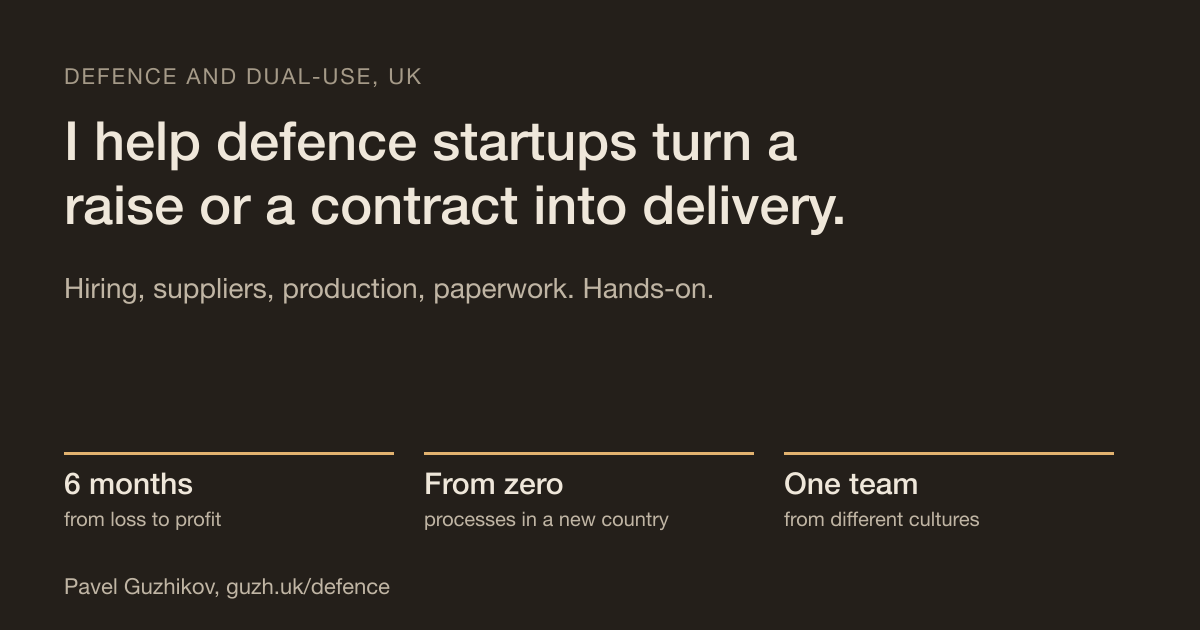
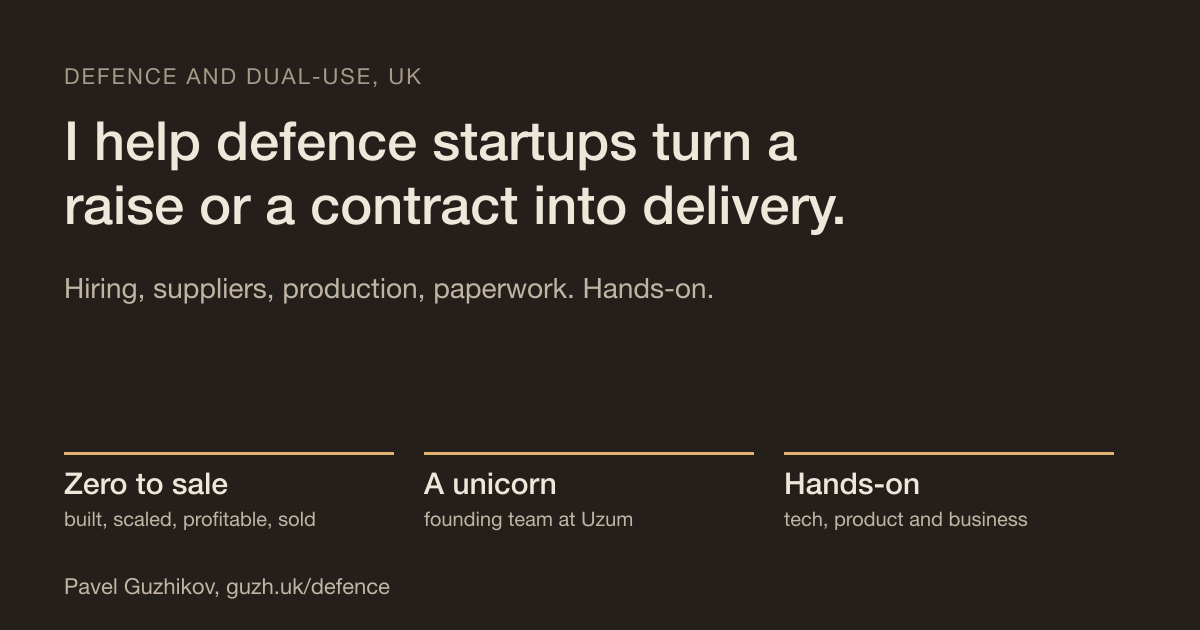
Outreach pages: lead with breadth, built from zero to a sale
Pavel, 17 Nov 2026: the main proof is that he has built companies at every stage and in every set-up
(from zero, scaling, profit, sale), was on a unicorn's founding team, and is hands-on in tech, product and
business. Loss to profit in six months stays as a supporting example in Who I am.

diff --git a/defence/brief/index.html b/defence/brief/index.html
@@ -4,23 +4,23 @@
 <meta charset="utf-8">
 <meta name="viewport" content="width=device-width, initial-scale=1">
 <!-- Generated by tools/make-defence-pages.py. Edit there, not here. -->
-<title>From loss to profit in six months. Now for defence startups | Pavel Guzhikov</title>
-<meta name="description" content="Pavel Guzhikov has taken a business from loss to profit in six months and rebuilt a company&#x27;s processes from zero in a new country, and still ships his own code. He now helps UK defence and dual-use startups deliver after a raise or a contract.">
+<title>Companies built from zero to a sale. Now for defence startups | Pavel Guzhikov</title>
+<meta name="description" content="Pavel Guzhikov has built companies at every stage, from zero through scaling and profit to a sale, was on the founding team of a unicorn, and still ships his own code. He now helps UK defence and dual-use startups deliver after a raise or a contract.">
 <link rel="canonical" href="https://guzh.uk/defence/brief/">
 <meta property="og:type" content="website">
 <meta property="og:url" content="https://guzh.uk/defence/brief/">
 <meta property="og:site_name" content="Pavel Guzhikov">
-<meta property="og:title" content="From loss to profit in six months. Now for defence startups">
-<meta property="og:description" content="Pavel Guzhikov has taken a business from loss to profit in six months and rebuilt a company&#x27;s processes from zero in a new country, and still ships his own code. He now helps UK defence and dual-use startups deliver after a raise or a contract.">
+<meta property="og:title" content="Companies built from zero to a sale. Now for defence startups">
+<meta property="og:description" content="Pavel Guzhikov has built companies at every stage, from zero through scaling and profit to a sale, was on the founding team of a unicorn, and still ships his own code. He now helps UK defence and dual-use startups deliver after a raise or a contract.">
 <meta property="og:image" content="https://guzh.uk/assets/defence/proof-og.png">
 <meta property="og:image:width" content="1200">
 <meta property="og:image:height" content="630">
-<meta property="og:image:alt" content="From loss to profit in six months. Now I do it for defence startups.">
+<meta property="og:image:alt" content="I have built companies at every stage, from zero to a sale. Now I do it for defence startups.">
 <meta name="twitter:card" content="summary_large_image">
-<meta name="twitter:title" content="From loss to profit in six months. Now for defence startups">
-<meta name="twitter:description" content="Pavel Guzhikov has taken a business from loss to profit in six months and rebuilt a company&#x27;s processes from zero in a new country, and still ships his own code. He now helps UK defence and dual-use startups deliver after a raise or a contract.">
+<meta name="twitter:title" content="Companies built from zero to a sale. Now for defence startups">
+<meta name="twitter:description" content="Pavel Guzhikov has built companies at every stage, from zero through scaling and profit to a sale, was on the founding team of a unicorn, and still ships his own code. He now helps UK defence and dual-use startups deliver after a raise or a contract.">
 <meta name="twitter:image" content="https://guzh.uk/assets/defence/proof-og.png">
-<meta name="twitter:image:alt" content="From loss to profit in six months. Now I do it for defence startups.">
+<meta name="twitter:image:alt" content="I have built companies at every stage, from zero to a sale. Now I do it for defence startups.">
 <meta name="theme-color" content="#F1EFE9" media="(prefers-color-scheme: light)">
 <meta name="theme-color" content="#241F1A" media="(prefers-color-scheme: dark)">
 <link rel="icon" href="/favicon.svg" type="image/svg+xml">
@@ -28,7 +28,7 @@
 <link rel="preconnect" href="https://fonts.googleapis.com">
 <link rel="preconnect" href="https://fonts.gstatic.com" crossorigin>
 <link href="https://fonts.googleapis.com/css2?family=Geist:wght@400;500;600&amp;display=swap" rel="stylesheet">
-<script type="application/ld+json">{"@context": "https://schema.org", "@type": "Service", "name": "From loss to profit in six months. Now for defence startups", "description": "Pavel Guzhikov has taken a business from loss to profit in six months and rebuilt a company's processes from zero in a new country, and still ships his own code. He now helps UK defence and dual-use startups deliver after a raise or a contract.", "url": "https://guzh.uk/defence/brief/", "areaServed": "GB", "serviceType": "Delivery, product and scale-up partner for defence and dual-use technology companies", "provider": {"@type": "Person", "name": "Pavel Guzhikov", "url": "https://guzh.uk/"}}</script>
+<script type="application/ld+json">{"@context": "https://schema.org", "@type": "Service", "name": "Companies built from zero to a sale. Now for defence startups", "description": "Pavel Guzhikov has built companies at every stage, from zero through scaling and profit to a sale, was on the founding team of a unicorn, and still ships his own code. He now helps UK defence and dual-use startups deliver after a raise or a contract.", "url": "https://guzh.uk/defence/brief/", "areaServed": "GB", "serviceType": "Delivery, product and scale-up partner for defence and dual-use technology companies", "provider": {"@type": "Person", "name": "Pavel Guzhikov", "url": "https://guzh.uk/"}}</script>
 <script>
 try { var t = localStorage.getItem("theme"); if (t === "light" || t === "dark") document.documentElement.setAttribute("data-theme", t); } catch (e) {}
 document.documentElement.classList.add("js");
@@ -264,13 +264,13 @@ main{max-width:1120px}
 <div class="hero">
 <div>
   <p class="kicker">Defence and dual-use, UK</p>
-  <h1>I've taken a business from loss to profit in six months. Now I do it for defence startups.</h1>
-  <p class="sub">After a raise or a contract, the hard part is everything around the product. I've run that part in a new country with a mixed team, and I still write the software myself.</p>
+  <h1>I've built companies at every stage, from zero to a sale. Now I do it for defence startups.</h1>
+  <p class="sub">After a raise or a contract, the hard part is everything around the product. I've run that part as founder, operator and engineer, and I still write the software myself.</p>
   <div class="row"><a class="btn" href="https://calendar.app.google/RG3g5WzxB3y9tXu39" target="_blank" rel="noopener noreferrer">Book 30 minutes</a><a class="btn ghost" href="mailto:pavel@guzh.uk">pavel@guzh.uk</a></div>
   <div class="facts">
-  <div class="fact"><b>6 months</b><span>from loss to profit, by fixing how the business runs</span></div>
-  <div class="fact"><b>From zero</b><span>processes rebuilt in a new country, with no infrastructure to lean on</span></div>
-  <div class="fact"><b>One team</b><span>out of people from different countries and cultures</span></div>
+  <div class="fact"><b>Zero to sale</b><span>companies built, scaled, made profitable, two of them sold</span></div>
+  <div class="fact"><b>A unicorn</b><span>founding team at Uzum, valued at over a billion dollars by outside investors</span></div>
+  <div class="fact"><b>Hands-on</b><span>in the technology, the product and the business, still writing the code</span></div>
 </div>
 </div>
 <section class="picker" aria-labelledby="pick-h">
@@ -289,7 +289,7 @@ main{max-width:1120px}
 </section>
 </div>
 <h2>Who I am</h2>
-<p>Pavel Guzhikov, London. Twenty years of building companies, as founder and as the person who makes them run. I've rebuilt a company's processes from zero in a new country, brought teams from different cultures together into one, and taken a business from loss to profit in six months. I was on the founding team at Uzum, Uzbekistan's first unicorn: lending, payments, cards and a marketplace for millions of users, in a market with no digital infrastructure. Before that I built fintech products with more than 100 banks, and founded and sold two companies. I am most interested now in problems where the technology is hard, the deployment is political and the stakes are national: defence and dual-use, sovereign infrastructure, public systems.</p>
+<p>Pavel Guzhikov, London. Twenty years of building companies, as founder and as the person who makes them run. I've built companies at every stage and in every set-up: from zero, through scaling and profit, to a sale. I was on the founding team at Uzum, Uzbekistan's first unicorn: lending, payments, cards and a marketplace for millions of users, in a market with no digital infrastructure. Along the way I've rebuilt a company's processes from zero in a new country, brought teams from different cultures together into one, and taken a business from loss to profit in six months. Before that I built fintech products with more than 100 banks, and founded and sold two companies. I am most interested now in problems where the technology is hard, the deployment is political and the stakes are national: defence and dual-use, sovereign infrastructure, public systems.</p>
 
 <h2>Hands on, now</h2>
 <p class="muted">I write and ship the software myself. Two things I am building alongside, for society and the state:</p>

diff --git a/pe/index.html b/pe/index.html
@@ -5,20 +5,20 @@
 <meta name="viewport" content="width=device-width, initial-scale=1">
 <!-- Generated by tools/make-pe-page.py. Edit there, not here. -->
 <title>I make the 100-day plan happen in the British brands you buy | Pavel Guzhikov</title>
-<meta name="description" content="For private equity owners of British brands: precise management and execution inside the company you have just bought, hands-on beside management and measured weekly. Pavel Guzhikov: took a business from loss to profit in six months.">
+<meta name="description" content="For private equity owners of British brands: precise management and execution inside the company you have just bought, hands-on beside management and measured weekly. Pavel Guzhikov: companies built from zero to a sale, founding team of a unicorn.">
 <link rel="canonical" href="https://guzh.uk/pe/">
 <meta property="og:type" content="website">
 <meta property="og:url" content="https://guzh.uk/pe/">
 <meta property="og:site_name" content="Pavel Guzhikov">
 <meta property="og:title" content="I make the 100-day plan happen in the British brands you buy">
-<meta property="og:description" content="For private equity owners of British brands: precise management and execution inside the company you have just bought, hands-on beside management and measured weekly. Pavel Guzhikov: took a business from loss to profit in six months.">
+<meta property="og:description" content="For private equity owners of British brands: precise management and execution inside the company you have just bought, hands-on beside management and measured weekly. Pavel Guzhikov: companies built from zero to a sale, founding team of a unicorn.">
 <meta property="og:image" content="https://guzh.uk/assets/pe/pe-og.png">
 <meta property="og:image:width" content="1200">
 <meta property="og:image:height" content="630">
 <meta property="og:image:alt" content="I make the 100-day plan happen. Hands-on, beside management, measured weekly. For private equity owners of British brands.">
 <meta name="twitter:card" content="summary_large_image">
 <meta name="twitter:title" content="I make the 100-day plan happen in the British brands you buy">
-<meta name="twitter:description" content="For private equity owners of British brands: precise management and execution inside the company you have just bought, hands-on beside management and measured weekly. Pavel Guzhikov: took a business from loss to profit in six months.">
+<meta name="twitter:description" content="For private equity owners of British brands: precise management and execution inside the company you have just bought, hands-on beside management and measured weekly. Pavel Guzhikov: companies built from zero to a sale, founding team of a unicorn.">
 <meta name="twitter:image" content="https://guzh.uk/assets/pe/pe-og.png">
 <meta name="twitter:image:alt" content="I make the 100-day plan happen. Hands-on, beside management, measured weekly. For private equity owners of British brands.">
 <meta name="theme-color" content="#F1EFE9" media="(prefers-color-scheme: light)">
@@ -28,7 +28,7 @@
 <link rel="preconnect" href="https://fonts.googleapis.com">
 <link rel="preconnect" href="https://fonts.gstatic.com" crossorigin>
 <link href="https://fonts.googleapis.com/css2?family=Geist:wght@400;500;600&amp;display=swap" rel="stylesheet">
-<script type="application/ld+json">{"@context": "https://schema.org", "@type": "Service", "name": "I make the 100-day plan happen in the British brands you buy", "description": "For private equity owners of British brands: precise management and execution inside the company you have just bought, hands-on beside management and measured weekly. Pavel Guzhikov: took a business from loss to profit in six months.", "url": "https://guzh.uk/pe/", "areaServed": "GB", "serviceType": "Interim operating and execution partner for private equity portfolio companies", "provider": {"@type": "Person", "name": "Pavel Guzhikov", "url": "https://guzh.uk/"}}</script>
+<script type="application/ld+json">{"@context": "https://schema.org", "@type": "Service", "name": "I make the 100-day plan happen in the British brands you buy", "description": "For private equity owners of British brands: precise management and execution inside the company you have just bought, hands-on beside management and measured weekly. Pavel Guzhikov: companies built from zero to a sale, founding team of a unicorn.", "url": "https://guzh.uk/pe/", "areaServed": "GB", "serviceType": "Interim operating and execution partner for private equity portfolio companies", "provider": {"@type": "Person", "name": "Pavel Guzhikov", "url": "https://guzh.uk/"}}</script>
 <script>
 try { var t = localStorage.getItem("theme"); if (t === "light" || t === "dark") document.documentElement.setAttribute("data-theme", t); } catch (e) {}
 document.documentElement.classList.add("js");
@@ -266,12 +266,12 @@ main{max-width:1120px}
 <div>
   <p class="kicker">For private equity owners of British brands</p>
   <h1>I make the 100-day plan happen.</h1>
-  <p class="sub">Precise management and execution inside the company you have just bought: hands-on beside management, measured weekly, so your deal team doesn't have to chase it.</p>
+  <p class="sub">Precise management and execution inside the company you have just bought: beside management and measured weekly, so your deal team doesn't have to chase it.</p>
   <div class="row"><a class="btn" href="https://calendar.app.google/RG3g5WzxB3y9tXu39" target="_blank" rel="noopener noreferrer">Book 30 minutes</a><a class="btn ghost" href="mailto:pavel@guzh.uk">pavel@guzh.uk</a></div>
   <div class="facts">
-  <div class="fact"><b>6 months</b><span>from loss to profit, by fixing how the business runs</span></div>
-  <div class="fact"><b>From zero</b><span>processes rebuilt in a new country, with no infrastructure to lean on</span></div>
-  <div class="fact"><b>One team</b><span>out of people from different countries and cultures</span></div>
+  <div class="fact"><b>Zero to sale</b><span>companies built, scaled, made profitable, two of them sold</span></div>
+  <div class="fact"><b>A unicorn</b><span>founding team at Uzum, valued at over a billion dollars by outside investors</span></div>
+  <div class="fact"><b>Hands-on</b><span>in the technology, the product and the business, still writing the code</span></div>
 </div>
 </div>
 <section class="picker" aria-labelledby="pick-h">
@@ -312,7 +312,7 @@ main{max-width:1120px}
 <p class="gh" id="gh">My code is public at <a href="https://github.com/xternal">github.com/xternal</a>.</p>
 
 <h2>Who I am</h2>
-<p>Pavel Guzhikov, London. Twenty years of building companies, as founder and as the person who makes them run. I've rebuilt a company's processes from zero in a new country, brought teams from different cultures together into one, and taken a business from loss to profit in six months. I was on the founding team at Uzum, Uzbekistan's first unicorn: lending, payments, cards and a marketplace for millions of users, in a market with no digital infrastructure. Before that I built fintech products with more than 100 banks, and founded and sold two companies. I like businesses where a good product meets messy operations: that is where precise management pays back fastest.</p>
+<p>Pavel Guzhikov, London. Twenty years of building companies, as founder and as the person who makes them run. I've built companies at every stage and in every set-up: from zero, through scaling and profit, to a sale. I was on the founding team at Uzum, Uzbekistan's first unicorn: lending, payments, cards and a marketplace for millions of users, in a market with no digital infrastructure. Along the way I've rebuilt a company's processes from zero in a new country, brought teams from different cultures together into one, and taken a business from loss to profit in six months. Before that I built fintech products with more than 100 banks, and founded and sold two companies. I like businesses where a good product meets messy operations: that is where precise management pays back fastest.</p>
 
 <h2>What stays yours</h2>
 <p>The thesis, the board and the brand. Management stays in charge: I work beside them as one of the team, not as the fund's auditor. You get a short weekly note: what moved, what is stuck, what needs a decision.</p>
@@ -331,7 +331,7 @@ main{max-width:1120px}
   <dt>Which companies?</dt>
   <dd>British brands from about 20 to a few hundred people, usually in the first year after an investment or during a buy-and-build.</dd>
   <dt>Why someone from fintech?</dt>
-  <dd>Because the arithmetic of growth is the same everywhere: too much to do, too few people, and processes built for ten carrying a hundred. I have rebuilt a company from zero in a new country and taken one from loss to profit in six months.</dd>
+  <dd>Because the arithmetic of growth is the same everywhere: too much to do, too few people, and processes built for ten carrying a hundred. I have built companies from zero, scaled them, made them profitable and sold them.</dd>
   <dt>Who do I report to?</dt>
   <dd>We agree that at the start: usually the operating partner, with management as my day-to-day team.</dd>
 </dl>

diff --git a/defence/index.html b/defence/index.html
@@ -5,20 +5,20 @@
 <meta name="viewport" content="width=device-width, initial-scale=1">
 <!-- Generated by tools/make-defence-pages.py. Edit there, not here. -->
 <title>I help UK defence startups turn a raise or a contract into delivery | Pavel Guzhikov</title>
-<meta name="description" content="Hiring, suppliers, production and paperwork, taken on hands-on from day one so your engineers stay on the product. Pavel Guzhikov: took a business from loss to profit in six months.">
+<meta name="description" content="Hiring, suppliers, production and paperwork, taken on hands-on from day one so your engineers stay on the product. Pavel Guzhikov: companies built from zero to a sale, founding team of a unicorn.">
 <link rel="canonical" href="https://guzh.uk/defence/">
 <meta property="og:type" content="website">
 <meta property="og:url" content="https://guzh.uk/defence/">
 <meta property="og:site_name" content="Pavel Guzhikov">
 <meta property="og:title" content="I help UK defence startups turn a raise or a contract into delivery">
-<meta property="og:description" content="Hiring, suppliers, production and paperwork, taken on hands-on from day one so your engineers stay on the product. Pavel Guzhikov: took a business from loss to profit in six months.">
+<meta property="og:description" content="Hiring, suppliers, production and paperwork, taken on hands-on from day one so your engineers stay on the product. Pavel Guzhikov: companies built from zero to a sale, founding team of a unicorn.">
 <meta property="og:image" content="https://guzh.uk/assets/defence/delivery-og.png">
 <meta property="og:image:width" content="1200">
 <meta property="og:image:height" content="630">
 <meta property="og:image:alt" content="I help UK defence startups turn a raise or a contract into delivery: hiring, suppliers, production, paperwork.">
 <meta name="twitter:card" content="summary_large_image">
 <meta name="twitter:title" content="I help UK defence startups turn a raise or a contract into delivery">
-<meta name="twitter:description" content="Hiring, suppliers, production and paperwork, taken on hands-on from day one so your engineers stay on the product. Pavel Guzhikov: took a business from loss to profit in six months.">
+<meta name="twitter:description" content="Hiring, suppliers, production and paperwork, taken on hands-on from day one so your engineers stay on the product. Pavel Guzhikov: companies built from zero to a sale, founding team of a unicorn.">
 <meta name="twitter:image" content="https://guzh.uk/assets/defence/delivery-og.png">
 <meta name="twitter:image:alt" content="I help UK defence startups turn a raise or a contract into delivery: hiring, suppliers, production, paperwork.">
 <meta name="theme-color" content="#F1EFE9" media="(prefers-color-scheme: light)">
@@ -28,7 +28,7 @@
 <link rel="preconnect" href="https://fonts.googleapis.com">
 <link rel="preconnect" href="https://fonts.gstatic.com" crossorigin>
 <link href="https://fonts.googleapis.com/css2?family=Geist:wght@400;500;600&amp;display=swap" rel="stylesheet">
-<script type="application/ld+json">{"@context": "https://schema.org", "@type": "Service", "name": "I help UK defence startups turn a raise or a contract into delivery", "description": "Hiring, suppliers, production and paperwork, taken on hands-on from day one so your engineers stay on the product. Pavel Guzhikov: took a business from loss to profit in six months.", "url": "https://guzh.uk/defence/", "areaServed": "GB", "serviceType": "Delivery, product and scale-up partner for defence and dual-use technology companies", "provider": {"@type": "Person", "name": "Pavel Guzhikov", "url": "https://guzh.uk/"}}</script>
+<script type="application/ld+json">{"@context": "https://schema.org", "@type": "Service", "name": "I help UK defence startups turn a raise or a contract into delivery", "description": "Hiring, suppliers, production and paperwork, taken on hands-on from day one so your engineers stay on the product. Pavel Guzhikov: companies built from zero to a sale, founding team of a unicorn.", "url": "https://guzh.uk/defence/", "areaServed": "GB", "serviceType": "Delivery, product and scale-up partner for defence and dual-use technology companies", "provider": {"@type": "Person", "name": "Pavel Guzhikov", "url": "https://guzh.uk/"}}</script>
 <script>
 try { var t = localStorage.getItem("theme"); if (t === "light" || t === "dark") document.documentElement.setAttribute("data-theme", t); } catch (e) {}
 document.documentElement.classList.add("js");
@@ -268,9 +268,9 @@ main{max-width:1120px}
   <p class="sub">Hiring, suppliers, production and paperwork, hands-on from day one, so your engineers stay on the product.</p>
   <div class="row"><a class="btn" href="https://calendar.app.google/RG3g5WzxB3y9tXu39" target="_blank" rel="noopener noreferrer">Book 30 minutes</a><a class="btn ghost" href="mailto:pavel@guzh.uk">pavel@guzh.uk</a></div>
   <div class="facts">
-  <div class="fact"><b>6 months</b><span>from loss to profit, by fixing how the business runs</span></div>
-  <div class="fact"><b>From zero</b><span>processes rebuilt in a new country, with no infrastructure to lean on</span></div>
-  <div class="fact"><b>One team</b><span>out of people from different countries and cultures</span></div>
+  <div class="fact"><b>Zero to sale</b><span>companies built, scaled, made profitable, two of them sold</span></div>
+  <div class="fact"><b>A unicorn</b><span>founding team at Uzum, valued at over a billion dollars by outside investors</span></div>
+  <div class="fact"><b>Hands-on</b><span>in the technology, the product and the business, still writing the code</span></div>
 </div>
 </div>
 <section class="picker" aria-labelledby="pick-h">
@@ -311,7 +311,7 @@ main{max-width:1120px}
 <p class="gh" id="gh">My code is public at <a href="https://github.com/xternal">github.com/xternal</a>.</p>
 
 <h2>Who I am</h2>
-<p>Pavel Guzhikov, London. Twenty years of building companies, as founder and as the person who makes them run. I've rebuilt a company's processes from zero in a new country, brought teams from different cultures together into one, and taken a business from loss to profit in six months. I was on the founding team at Uzum, Uzbekistan's first unicorn: lending, payments, cards and a marketplace for millions of users, in a market with no digital infrastructure. Before that I built fintech products with more than 100 banks, and founded and sold two companies. I am most interested now in problems where the technology is hard, the deployment is political and the stakes are national: defence and dual-use, sovereign infrastructure, public systems.</p>
+<p>Pavel Guzhikov, London. Twenty years of building companies, as founder and as the person who makes them run. I've built companies at every stage and in every set-up: from zero, through scaling and profit, to a sale. I was on the founding team at Uzum, Uzbekistan's first unicorn: lending, payments, cards and a marketplace for millions of users, in a market with no digital infrastructure. Along the way I've rebuilt a company's processes from zero in a new country, brought teams from different cultures together into one, and taken a business from loss to profit in six months. Before that I built fintech products with more than 100 banks, and founded and sold two companies. I am most interested now in problems where the technology is hard, the deployment is political and the stakes are national: defence and dual-use, sovereign infrastructure, public systems.</p>
 
 <h2>What stays yours</h2>
 <p>The technology, the defence know-how, the clearances and the customer relationships. I work on the unclassified side: the machinery that turns funding and contracts into delivery. Where any part needs vetting, we say so plainly at the start.</p>

diff --git a/defence/route/index.html b/defence/route/index.html
@@ -268,9 +268,9 @@ main{max-width:1120px}
   <p class="sub">Pick the thing slowing your delivery most: hiring, a contract, production or trials. In two weeks it's mapped, a working fix is live, and you have a plain plan for the rest.</p>
   <div class="row"><a class="btn" href="https://calendar.app.google/RG3g5WzxB3y9tXu39" target="_blank" rel="noopener noreferrer">Book 30 minutes</a><a class="btn ghost" href="mailto:pavel@guzh.uk">pavel@guzh.uk</a></div>
   <div class="facts">
-  <div class="fact"><b>6 months</b><span>from loss to profit, by fixing how the business runs</span></div>
-  <div class="fact"><b>From zero</b><span>processes rebuilt in a new country, with no infrastructure to lean on</span></div>
-  <div class="fact"><b>One team</b><span>out of people from different countries and cultures</span></div>
+  <div class="fact"><b>Zero to sale</b><span>companies built, scaled, made profitable, two of them sold</span></div>
+  <div class="fact"><b>A unicorn</b><span>founding team at Uzum, valued at over a billion dollars by outside investors</span></div>
+  <div class="fact"><b>Hands-on</b><span>in the technology, the product and the business, still writing the code</span></div>
 </div>
 </div>
 <section class="picker" aria-labelledby="pick-h">
@@ -318,7 +318,7 @@ main{max-width:1120px}
 <p class="gh" id="gh">My code is public at <a href="https://github.com/xternal">github.com/xternal</a>.</p>
 
 <h2>Who I am</h2>
-<p>Pavel Guzhikov, London. Twenty years of building companies, as founder and as the person who makes them run. I've rebuilt a company's processes from zero in a new country, brought teams from different cultures together into one, and taken a business from loss to profit in six months. I was on the founding team at Uzum, Uzbekistan's first unicorn: lending, payments, cards and a marketplace for millions of users, in a market with no digital infrastructure. Before that I built fintech products with more than 100 banks, and founded and sold two companies. I am most interested now in problems where the technology is hard, the deployment is political and the stakes are national: defence and dual-use, sovereign infrastructure, public systems.</p>
+<p>Pavel Guzhikov, London. Twenty years of building companies, as founder and as the person who makes them run. I've built companies at every stage and in every set-up: from zero, through scaling and profit, to a sale. I was on the founding team at Uzum, Uzbekistan's first unicorn: lending, payments, cards and a marketplace for millions of users, in a market with no digital infrastructure. Along the way I've rebuilt a company's processes from zero in a new country, brought teams from different cultures together into one, and taken a business from loss to profit in six months. Before that I built fintech products with more than 100 banks, and founded and sold two companies. I am most interested now in problems where the technology is hard, the deployment is political and the stakes are national: defence and dual-use, sovereign infrastructure, public systems.</p>
 
 <h2>What stays yours</h2>
 <p>The technology, the defence know-how, the clearances and the customer relationships. I work on the unclassified side: the machinery that turns funding and contracts into delivery. Where any part needs vetting, we say so plainly at the start.</p>

diff --git a/tools/make-defence-pages.py b/tools/make-defence-pages.py
@@ -4,7 +4,7 @@
     ./tools/make-defence-pages.py
 
   /defence/        delivery partner: what I take off your plate after a raise or a contract
-  /defence/brief/  proof: loss to profit in six months, and what I am building now
+  /defence/brief/  proof: companies built at every stage, from zero to a sale, and what I am building now
   /defence/route/  the offer: two weeks, one bottleneck, fixed and running
 
 Each email in the outreach links one of them (the CRM records which), so replies and bookings can be tied
@@ -95,9 +95,9 @@ PAGE_JS = r"""
 """
 
 FACTS = """<div class="facts">
-  <div class="fact"><b>6 months</b><span>from loss to profit, by fixing how the business runs</span></div>
-  <div class="fact"><b>From zero</b><span>processes rebuilt in a new country, with no infrastructure to lean on</span></div>
-  <div class="fact"><b>One team</b><span>out of people from different countries and cultures</span></div>
+  <div class="fact"><b>Zero to sale</b><span>companies built, scaled, made profitable, two of them sold</span></div>
+  <div class="fact"><b>A unicorn</b><span>founding team at Uzum, valued at over a billion dollars by outside investors</span></div>
+  <div class="fact"><b>Hands-on</b><span>in the technology, the product and the business, still writing the code</span></div>
 </div>"""
 
 PLANS = [
@@ -170,7 +170,7 @@ HOW = """<h2>How we start</h2>
 </ol>"""
 
 WHO = """<h2>Who I am</h2>
-<p>Pavel Guzhikov, London. Twenty years of building companies, as founder and as the person who makes them run. I've rebuilt a company's processes from zero in a new country, brought teams from different cultures together into one, and taken a business from loss to profit in six months. I was on the founding team at Uzum, Uzbekistan's first unicorn: lending, payments, cards and a marketplace for millions of users, in a market with no digital infrastructure. Before that I built fintech products with more than 100 banks, and founded and sold two companies. I am most interested now in problems where the technology is hard, the deployment is political and the stakes are national: defence and dual-use, sovereign infrastructure, public systems.</p>"""
+<p>Pavel Guzhikov, London. Twenty years of building companies, as founder and as the person who makes them run. I've built companies at every stage and in every set-up: from zero, through scaling and profit, to a sale. I was on the founding team at Uzum, Uzbekistan's first unicorn: lending, payments, cards and a marketplace for millions of users, in a market with no digital infrastructure. Along the way I've rebuilt a company's processes from zero in a new country, brought teams from different cultures together into one, and taken a business from loss to profit in six months. Before that I built fintech products with more than 100 banks, and founded and sold two companies. I am most interested now in problems where the technology is hard, the deployment is political and the stakes are national: defence and dual-use, sovereign infrastructure, public systems.</p>"""
 
 FAQ = """<h2>Questions</h2>
 <dl class="faq">
@@ -200,7 +200,7 @@ PAGES = [
     {   # A: delivery partner
         "path": "defence/index.html", "url": "https://guzh.uk/defence/", "slug": "delivery",
         "title": "I help UK defence startups turn a raise or a contract into delivery",
-        "description": "Hiring, suppliers, production and paperwork, taken on hands-on from day one so your engineers stay on the product. Pavel Guzhikov: took a business from loss to profit in six months.",
+        "description": "Hiring, suppliers, production and paperwork, taken on hands-on from day one so your engineers stay on the product. Pavel Guzhikov: companies built from zero to a sale, founding team of a unicorn.",
         "image_alt": "I help UK defence startups turn a raise or a contract into delivery: hiring, suppliers, production, paperwork.",
         "hero": f"""<div>
   <p class="kicker">Defence and dual-use, UK</p>
@@ -215,13 +215,13 @@ PAGES = [
     },
     {   # B: proof
         "path": "defence/brief/index.html", "url": "https://guzh.uk/defence/brief/", "slug": "proof",
-        "title": "From loss to profit in six months. Now for defence startups",
-        "description": "Pavel Guzhikov has taken a business from loss to profit in six months and rebuilt a company's processes from zero in a new country, and still ships his own code. He now helps UK defence and dual-use startups deliver after a raise or a contract.",
-        "image_alt": "From loss to profit in six months. Now I do it for defence startups.",
+        "title": "Companies built from zero to a sale. Now for defence startups",
+        "description": "Pavel Guzhikov has built companies at every stage, from zero through scaling and profit to a sale, was on the founding team of a unicorn, and still ships his own code. He now helps UK defence and dual-use startups deliver after a raise or a contract.",
+        "image_alt": "I have built companies at every stage, from zero to a sale. Now I do it for defence startups.",
         "hero": f"""<div>
   <p class="kicker">Defence and dual-use, UK</p>
-  <h1>I've taken a business from loss to profit in six months. Now I do it for defence startups.</h1>
-  <p class="sub">After a raise or a contract, the hard part is everything around the product. I've run that part in a new country with a mixed team, and I still write the software myself.</p>
+  <h1>I've built companies at every stage, from zero to a sale. Now I do it for defence startups.</h1>
+  <p class="sub">After a raise or a contract, the hard part is everything around the product. I've run that part as founder, operator and engineer, and I still write the software myself.</p>
   {buttons()}
   {FACTS}
 </div>""",

diff --git a/tools/make-pe-page.py b/tools/make-pe-page.py
@@ -55,7 +55,7 @@ HOW = """<h2>How we start</h2>
 </ol>"""
 
 WHO = """<h2>Who I am</h2>
-<p>Pavel Guzhikov, London. Twenty years of building companies, as founder and as the person who makes them run. I've rebuilt a company's processes from zero in a new country, brought teams from different cultures together into one, and taken a business from loss to profit in six months. I was on the founding team at Uzum, Uzbekistan's first unicorn: lending, payments, cards and a marketplace for millions of users, in a market with no digital infrastructure. Before that I built fintech products with more than 100 banks, and founded and sold two companies. I like businesses where a good product meets messy operations: that is where precise management pays back fastest.</p>"""
+<p>Pavel Guzhikov, London. Twenty years of building companies, as founder and as the person who makes them run. I've built companies at every stage and in every set-up: from zero, through scaling and profit, to a sale. I was on the founding team at Uzum, Uzbekistan's first unicorn: lending, payments, cards and a marketplace for millions of users, in a market with no digital infrastructure. Along the way I've rebuilt a company's processes from zero in a new country, brought teams from different cultures together into one, and taken a business from loss to profit in six months. Before that I built fintech products with more than 100 banks, and founded and sold two companies. I like businesses where a good product meets messy operations: that is where precise management pays back fastest.</p>"""
 
 FAQ = """<h2>Questions</h2>
 <dl class="faq">
@@ -64,7 +64,7 @@ FAQ = """<h2>Questions</h2>
   <dt>Which companies?</dt>
   <dd>British brands from about 20 to a few hundred people, usually in the first year after an investment or during a buy-and-build.</dd>
   <dt>Why someone from fintech?</dt>
-  <dd>Because the arithmetic of growth is the same everywhere: too much to do, too few people, and processes built for ten carrying a hundred. I have rebuilt a company from zero in a new country and taken one from loss to profit in six months.</dd>
+  <dd>Because the arithmetic of growth is the same everywhere: too much to do, too few people, and processes built for ten carrying a hundred. I have built companies from zero, scaled them, made them profitable and sold them.</dd>
   <dt>Who do I report to?</dt>
   <dd>We agree that at the start: usually the operating partner, with management as my day-to-day team.</dd>
 </dl>"""
@@ -72,12 +72,12 @@ FAQ = """<h2>Questions</h2>
 PAGE = {
     "path": "pe/index.html", "url": "https://guzh.uk/pe/", "slug": "pe",
     "title": "I make the 100-day plan happen in the British brands you buy",
-    "description": "For private equity owners of British brands: precise management and execution inside the company you have just bought, hands-on beside management and measured weekly. Pavel Guzhikov: took a business from loss to profit in six months.",
+    "description": "For private equity owners of British brands: precise management and execution inside the company you have just bought, hands-on beside management and measured weekly. Pavel Guzhikov: companies built from zero to a sale, founding team of a unicorn.",
     "image_alt": "I make the 100-day plan happen. Hands-on, beside management, measured weekly. For private equity owners of British brands.",
     "hero": f"""<div>
   <p class="kicker">For private equity owners of British brands</p>
   <h1>I make the 100-day plan happen.</h1>
-  <p class="sub">Precise management and execution inside the company you have just bought: hands-on beside management, measured weekly, so your deal team doesn't have to chase it.</p>
+  <p class="sub">Precise management and execution inside the company you have just bought: beside management and measured weekly, so your deal team doesn't have to chase it.</p>
   {D.buttons()}
   {D.FACTS}
 </div>""",

diff --git a/tools/make-defence-og.py b/tools/make-defence-og.py
@@ -25,11 +25,11 @@ def card(title, sub, facts):
             f'<text x="64" y="84" font-size="22" letter-spacing="2" fill="{INK3}">DEFENCE AND DUAL-USE, UK</text>{t}{s}{f}'
             f'<text x="64" y="594" font-size="22" fill="{INK2}">Pavel Guzhikov, guzh.uk/defence</text></svg>')
 
-FACTS = [("6 months", "from loss to profit"), ("From zero", "processes in a new country"), ("One team", "from different cultures")]
+FACTS = [("Zero to sale", "built, scaled, profitable, sold"), ("A unicorn", "founding team at Uzum"), ("Hands-on", "tech, product and business")]
 cards = {
     "delivery-og.png": card(["I help defence startups turn a", "raise or a contract into delivery."],
                             ["Hiring, suppliers, production, paperwork. Hands-on."], FACTS),
-    "proof-og.png": card(["From loss to profit in six months.", "Now for defence startups."],
+    "proof-og.png": card(["Built from zero to a sale.", "Now for defence startups."],
                          ["I run the part around the product, hands-on."], FACTS),
     "twoweeks-og.png": card(["Two weeks. One bottleneck.", "Fixed and running."],
                             ["Hiring, a contract, production or trials: pick one."], FACTS),

diff --git a/tools/make-pe-og.py b/tools/make-pe-og.py
@@ -25,7 +25,7 @@ def card(title, sub, facts):
             f'<text x="64" y="84" font-size="22" letter-spacing="2" fill="{INK3}">FOR PRIVATE EQUITY OWNERS OF BRITISH BRANDS</text>{t}{s}{f}'
             f'<text x="64" y="594" font-size="22" fill="{INK2}">Pavel Guzhikov, guzh.uk/pe</text></svg>')
 
-FACTS = [("6 months", "from loss to profit"), ("From zero", "processes in a new country"), ("One team", "from different cultures")]
+FACTS = [("Zero to sale", "built, scaled, profitable, sold"), ("A unicorn", "founding team at Uzum"), ("Hands-on", "tech, product and business")]
 cards = {
     "pe-og.png": card(["I make the 100-day plan happen."],
                       ["Hands-on, beside management, measured weekly.", "In the British brands you buy."], FACTS),
